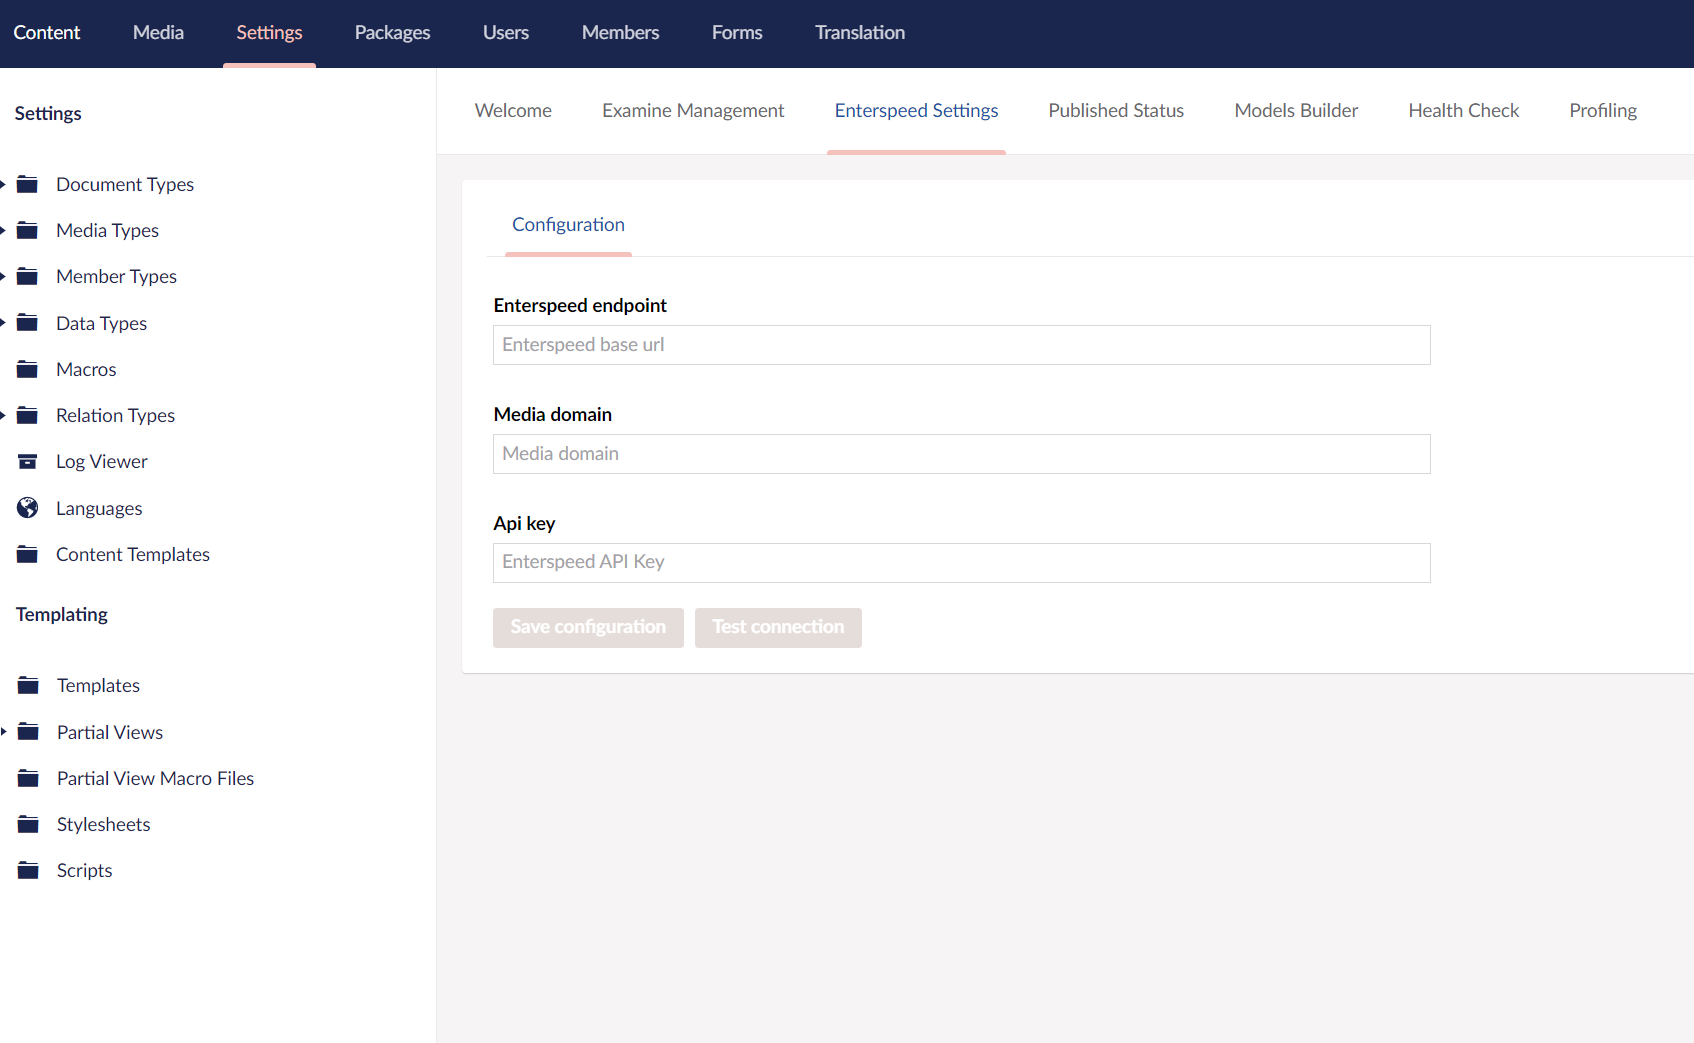
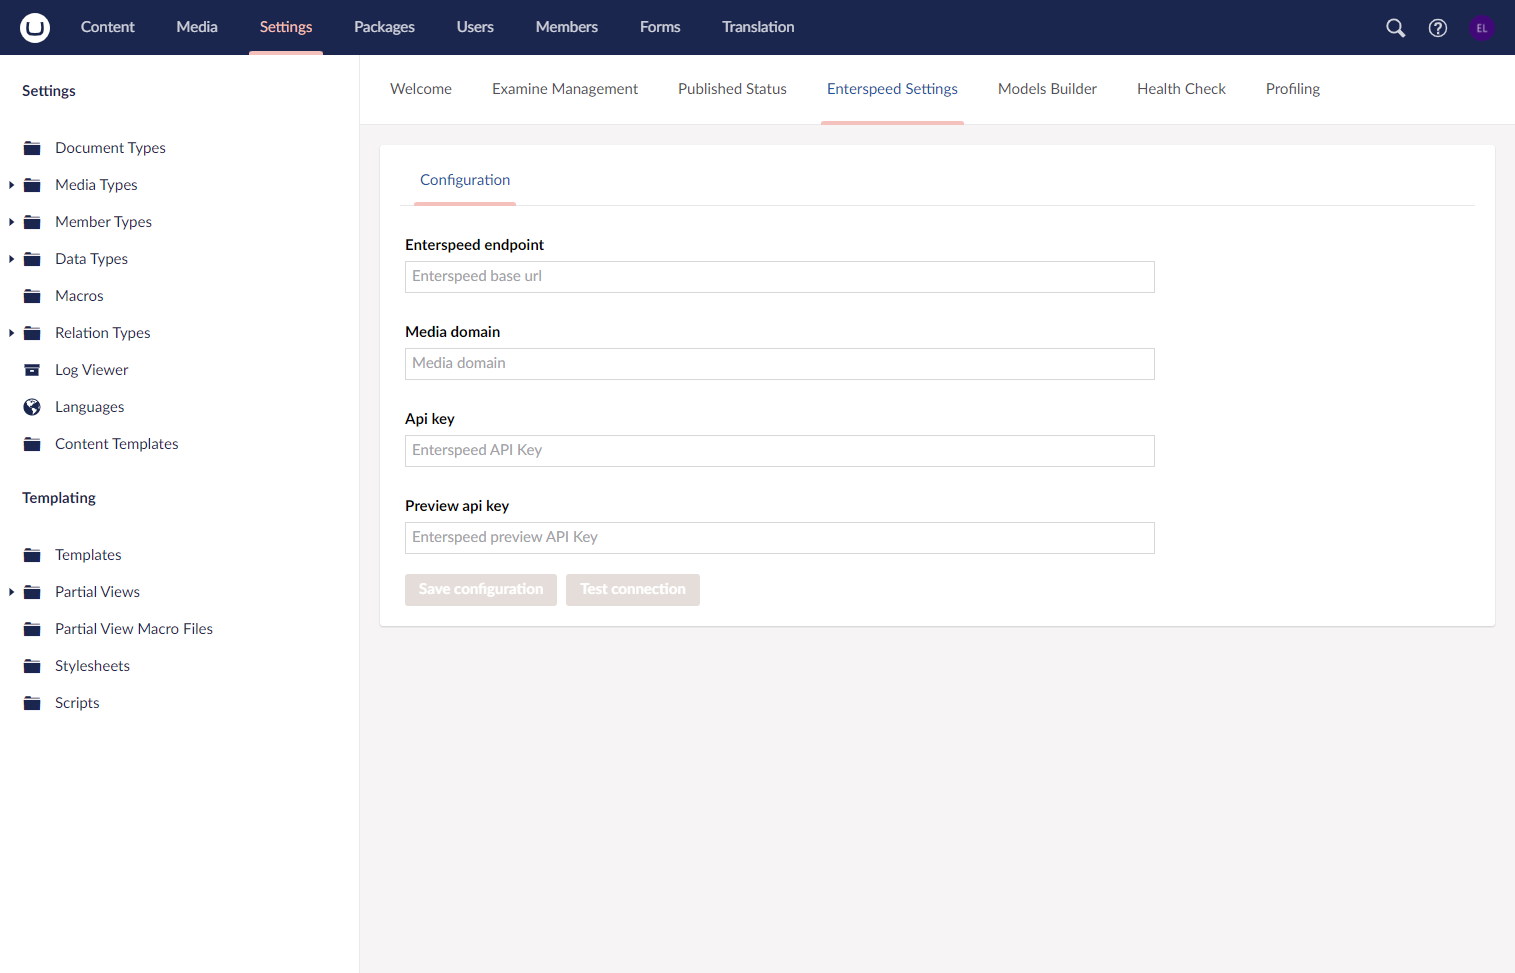
Update getting started guide to incl. preview api key

diff --git a/docs/integrations/umbraco/umbraco-v9/getting-started.md b/docs/integrations/umbraco/umbraco-v9/getting-started.md
@@ -45,12 +45,22 @@ The Media domain is to tell the Enterspeed integration where you have your media
 
 If you leave it empty, it will just use your current Umbraco installation domain.
 
-#### Api key
+### Api key
 Before you can insert an API key, you must have created a Source within the [Enterspeed Management](https://app.enterspeed.com/source).
 
 The API key looks something like this: source-xxxxxxxx-xxxx-xxxx-xxxx-xxxxxxxxxxxx. When you have gotten it, insert it in the Api key input field.
 
-When you have inserted the Enterspeed endpoint and the Api key click on Test connection and make sure that you get a successful response. When you do go ahead and Save configuration.
+### Preview API key
+
+Optional API key, serves the purpose of ingesting draft and unpublished content to the secondary (preview) source. Can be leveraged for your content editors to preview content, similarly to in-built 'Save & Preview' functionality in Umbraco.
+
+Before you can insert a Preview API key, you must have created a Source within the [Enterspeed Management](https://app.enterspeed.com/source).
+
+Enterspeeds connector will automatically push data to relevant primary or secondary sources based on actions performed in Umbraco backoffice, such as - Unpublish, trash, save, publish, etc.
+
+### Testing connection
+
+When you have inserted the Enterspeed endpoint and the API key(-s) click on Test connection and make sure that you get a successful response. When you do go ahead and Save the configuration. 
 
 ## App settings
 

diff --git a/docs/integrations/umbraco/umbraco-v8/getting-started.md b/docs/integrations/umbraco/umbraco-v8/getting-started.md
@@ -64,12 +64,22 @@ The Media domain is to tell the Enterspeed integration where you have your media
 
 If you leave it empty, it will just use your current Umbraco installation domain.
 
-#### Api key
+### Api key
 Before you can insert an API key, you must have created a Source within the [Enterspeed Management](https://app.enterspeed.com/source).
 
 The API key looks something like this: source-xxxxxxxx-xxxx-xxxx-xxxx-xxxxxxxxxxxx. When you have gotten it, insert it in the Api key input field.
 
-When you have inserted the Enterspeed endpoint and the Api key click on Test connection and make sure that you get a successful response. When you do go ahead and Save configuration.
+### Preview API key
+
+Optional API key, serves the purpose of ingesting draft and unpublished content to the secondary (preview) source. Can be leveraged for your content editors to preview content, similarly to in-built 'Save & Preview' functionality in Umbraco.
+
+Before you can insert a Preview API key, you must have created a Source within the [Enterspeed Management](https://app.enterspeed.com/source).
+
+Enterspeeds connector will automatically push data to relevant primary or secondary sources based on actions performed in Umbraco backoffice, such as - Unpublish, trash, save, publish, etc.
+
+### Testing connection
+
+When you have inserted the Enterspeed endpoint and the API key(-s) click on Test connection and make sure that you get a successful response. When you do go ahead and Save the configuration. 
 
 ## Web.config
 

diff --git a/docs/integrations/umbraco/umbraco-v7/getting-started.md b/docs/integrations/umbraco/umbraco-v7/getting-started.md
@@ -60,7 +60,17 @@ Before you can insert an API key, you must have created a Source within the [Ent
 
 The API key looks something like this: source-xxxxxxxx-xxxx-xxxx-xxxx-xxxxxxxxxxxx. When you have gotten it, insert it in the Api key input field.
 
-When you have inserted the Enterspeed endpoint and the Api key click on Test connection and make sure that you get a successful response. When you do go ahead and Save configuration. 
+### Preview API key
+
+Optional API key, serves the purpose of ingesting draft and unpublished content to the secondary (preview) source. Can be leveraged for your content editors to preview content, similarly to in-built 'Save & Preview' functionality in Umbraco.
+
+Before you can insert a Preview API key, you must have created a Source within the [Enterspeed Management](https://app.enterspeed.com/source).
+
+Enterspeeds connector will automatically push data to relevant primary or secondary sources based on actions performed in Umbraco backoffice, such as - Unpublish, trash, save, publish, etc.
+
+### Testing connection
+
+When you have inserted the Enterspeed endpoint and the API key(-s) click on Test connection and make sure that you get a successful response. When you do go ahead and Save the configuration. 
 
 ## Web.config app settings
 For Web.config, please use the following appSettings:
